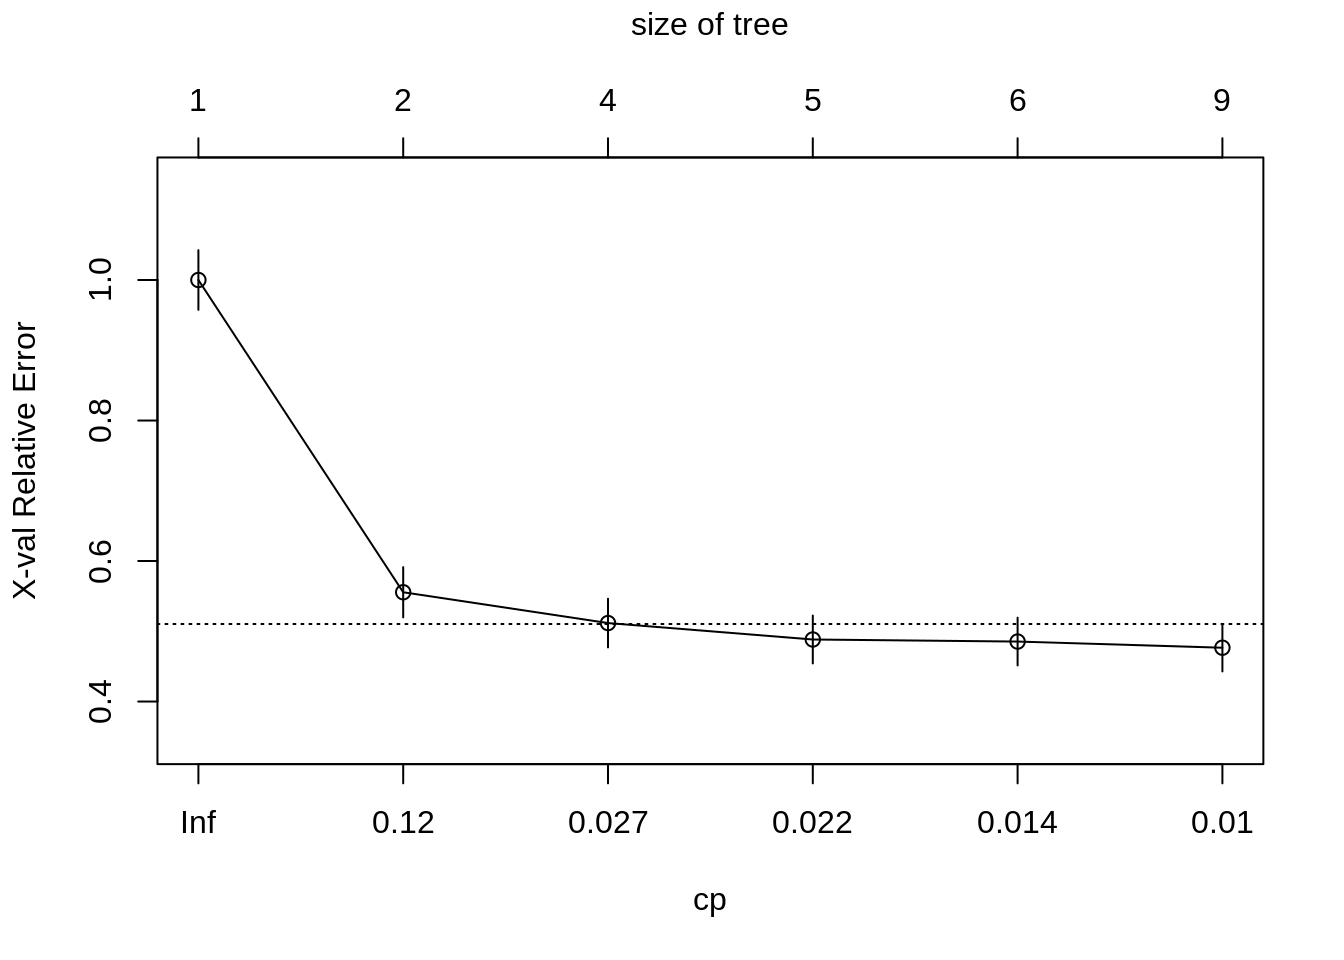
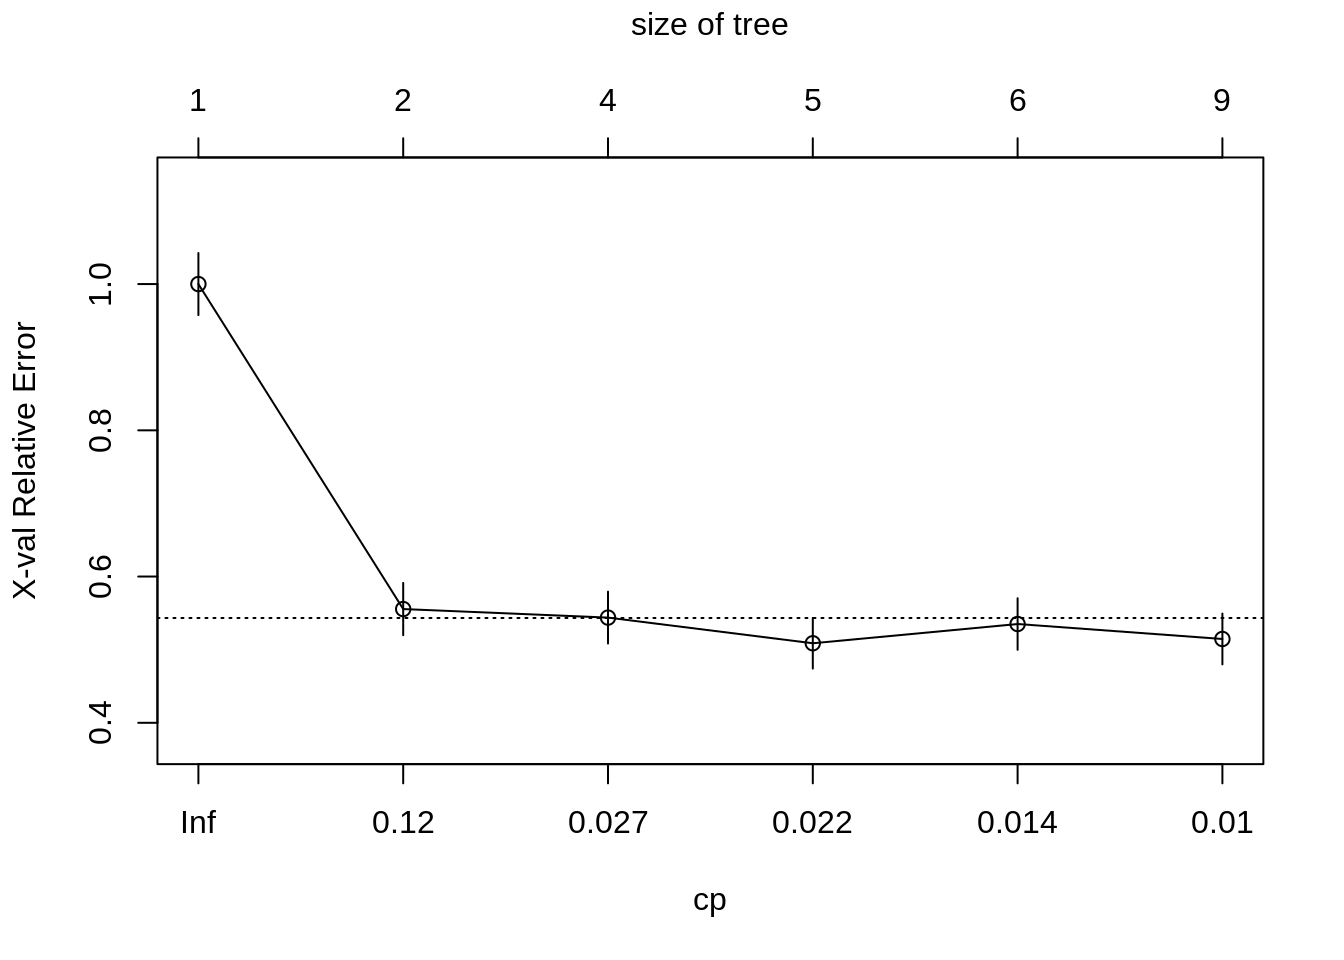
Deploy lebebr01/stat_thinking to github.com/lebebr01/stat_thinking.git:master

diff --git a/docs/descriptive-statistics-numerically-describing-the-sample-data.html b/docs/descriptive-statistics-numerically-describing-the-sample-data.html
@@ -190,10 +190,65 @@ code > span.in { color: #60a0b0; font-weight: bold; font-style: italic; } /* Inf
 <p>Data visualization is often the first step on the statistical journey to explore a research question. However, this is usually not where the journey stops, instead additional analyses are often performed to learn more about the trends and structure in the data. In this chapter we will learn about methods that useful for numerically summarizing a sample of data. These methods are commonly referred to as <em>descriptive statistics</em>.</p>
 <p>We will again use the data provided in the file <em>College-scorecard-clean.csv</em> to examine admissions rates for 2,019 institutions of higher education. As in the previous chapter, before we begin the analysis, we will load several packages that include functions we will use in the chapter. We also import the College Scorecard data using the <code>read_csv()</code> function.</p>
 <div class="sourceCode"><pre class="sourceCode r"><code class="sourceCode r"><span class="co"># Load packages</span>
-<span class="kw">library</span>(tidyverse)
-<span class="kw">library</span>(ggformula)
-<span class="kw">library</span>(mosaic)
-<span class="kw">library</span>(statthink)
+<span class="kw">library</span>(tidyverse)</code></pre></div>
+<pre><code>## ── Attaching packages ────────────────────────────────── tidyverse 1.2.1 ──</code></pre>
+<pre><code>## ✔ ggplot2 3.2.1     ✔ purrr   0.3.2
+## ✔ tibble  2.1.3     ✔ dplyr   0.8.3
+## ✔ tidyr   1.0.0     ✔ stringr 1.4.0
+## ✔ readr   1.3.1     ✔ forcats 0.4.0</code></pre>
+<pre><code>## ── Conflicts ───────────────────────────────────── tidyverse_conflicts() ──
+## ✖ dplyr::filter() masks stats::filter()
+## ✖ dplyr::lag()    masks stats::lag()</code></pre>
+<div class="sourceCode"><pre class="sourceCode r"><code class="sourceCode r"><span class="kw">library</span>(ggformula)</code></pre></div>
+<pre><code>## Loading required package: ggstance</code></pre>
+<pre><code>## 
+## Attaching package: &#39;ggstance&#39;</code></pre>
+<pre><code>## The following objects are masked from &#39;package:ggplot2&#39;:
+## 
+##     geom_errorbarh, GeomErrorbarh</code></pre>
+<pre><code>## 
+## New to ggformula?  Try the tutorials: 
+##  learnr::run_tutorial(&quot;introduction&quot;, package = &quot;ggformula&quot;)
+##  learnr::run_tutorial(&quot;refining&quot;, package = &quot;ggformula&quot;)</code></pre>
+<div class="sourceCode"><pre class="sourceCode r"><code class="sourceCode r"><span class="kw">library</span>(mosaic)</code></pre></div>
+<pre><code>## Loading required package: lattice</code></pre>
+<pre><code>## Loading required package: mosaicData</code></pre>
+<pre><code>## Loading required package: Matrix</code></pre>
+<pre><code>## 
+## Attaching package: &#39;Matrix&#39;</code></pre>
+<pre><code>## The following objects are masked from &#39;package:tidyr&#39;:
+## 
+##     expand, pack, unpack</code></pre>
+<pre><code>## Registered S3 method overwritten by &#39;mosaic&#39;:
+##   method                           from   
+##   fortify.SpatialPolygonsDataFrame ggplot2</code></pre>
+<pre><code>## 
+## The &#39;mosaic&#39; package masks several functions from core packages in order to add 
+## additional features.  The original behavior of these functions should not be affected by this.
+## 
+## Note: If you use the Matrix package, be sure to load it BEFORE loading mosaic.</code></pre>
+<pre><code>## 
+## Attaching package: &#39;mosaic&#39;</code></pre>
+<pre><code>## The following object is masked from &#39;package:Matrix&#39;:
+## 
+##     mean</code></pre>
+<pre><code>## The following objects are masked from &#39;package:dplyr&#39;:
+## 
+##     count, do, tally</code></pre>
+<pre><code>## The following object is masked from &#39;package:purrr&#39;:
+## 
+##     cross</code></pre>
+<pre><code>## The following object is masked from &#39;package:ggplot2&#39;:
+## 
+##     stat</code></pre>
+<pre><code>## The following objects are masked from &#39;package:stats&#39;:
+## 
+##     binom.test, cor, cor.test, cov, fivenum, IQR, median,
+##     prop.test, quantile, sd, t.test, var</code></pre>
+<pre><code>## The following objects are masked from &#39;package:base&#39;:
+## 
+##     max, mean, min, prod, range, sample, sum</code></pre>
+<div class="sourceCode"><pre class="sourceCode r"><code class="sourceCode r"><span class="kw">library</span>(statthink)
 
 <span class="co"># Set theme for plots</span>
 <span class="kw">theme_set</span>(<span class="kw">theme_statthinking</span>())
@@ -202,9 +257,28 @@ code > span.in { color: #60a0b0; font-weight: bold; font-style: italic; } /* Inf
 colleges &lt;-<span class="st"> </span><span class="kw">read_csv</span>(
   <span class="dt">file =</span> <span class="st">&quot;https://raw.githubusercontent.com/lebebr01/statthink/master/data-raw/College-scorecard-clean.csv&quot;</span>, 
   <span class="dt">guess_max =</span> <span class="dv">10000</span>
-  )
-
-<span class="co"># View first six cases</span>
+  )</code></pre></div>
+<pre><code>## Parsed with column specification:
+## cols(
+##   instnm = col_character(),
+##   city = col_character(),
+##   stabbr = col_character(),
+##   preddeg = col_character(),
+##   region = col_character(),
+##   locale = col_character(),
+##   adm_rate = col_double(),
+##   actcmmid = col_double(),
+##   ugds = col_double(),
+##   costt4_a = col_double(),
+##   costt4_p = col_double(),
+##   tuitionfee_in = col_double(),
+##   tuitionfee_out = col_double(),
+##   debt_mdn = col_double(),
+##   grad_debt_mdn = col_double(),
+##   female = col_double(),
+##   bachelor_degree = col_double()
+## )</code></pre>
+<div class="sourceCode"><pre class="sourceCode r"><code class="sourceCode r"><span class="co"># View first six cases</span>
 <span class="kw">head</span>(colleges)</code></pre></div>
 <pre><code>## # A tibble: 6 x 17
 ##   instnm city  stabbr preddeg region locale adm_rate actcmmid  ugds

diff --git a/docs/classification.html b/docs/classification.html
@@ -324,10 +324,10 @@ titanic &lt;-<span class="st"> </span><span class="kw">bind_rows</span>(titanic_
 ##         CP nsplit rel error  xerror     xstd
 ## 1 0.444444      0   1.00000 1.00000 0.042446
 ## 2 0.030702      1   0.55556 0.55556 0.035750
-## 3 0.023392      3   0.49415 0.51170 0.034675
-## 4 0.020468      4   0.47076 0.48830 0.034061
-## 5 0.010234      5   0.45029 0.48538 0.033983
-## 6 0.010000      8   0.41813 0.47661 0.033744</code></pre>
+## 3 0.023392      3   0.49415 0.54386 0.035472
+## 4 0.020468      4   0.47076 0.50877 0.034599
+## 5 0.010234      5   0.45029 0.53509 0.035260
+## 6 0.010000      8   0.41813 0.51462 0.034749</code></pre>
 <div class="sourceCode"><pre class="sourceCode r"><code class="sourceCode r"><span class="kw">plotcp</span>(class_tree)</code></pre></div>
 <p><img src="05-classification_files/figure-html/unnamed-chunk-6-1.png" width="672" /></p>
 <div class="sourceCode"><pre class="sourceCode r"><code class="sourceCode r">prune_class_tree &lt;-<span class="st"> </span><span class="kw">prune</span>(class_tree, <span class="dt">cp =</span> .<span class="dv">02</span>)

diff --git a/docs/03-descriptive.md b/docs/03-descriptive.md
@@ -9,8 +9,135 @@ We will again use the data provided in the file *College-scorecard-clean.csv* to
 ```r
 # Load packages
 library(tidyverse)
+```
+
+```
+## ── Attaching packages ────────────────────────────────── tidyverse 1.2.1 ──
+```
+
+```
+## ✔ ggplot2 3.2.1     ✔ purrr   0.3.2
+## ✔ tibble  2.1.3     ✔ dplyr   0.8.3
+## ✔ tidyr   1.0.0     ✔ stringr 1.4.0
+## ✔ readr   1.3.1     ✔ forcats 0.4.0
+```
+
+```
+## ── Conflicts ───────────────────────────────────── tidyverse_conflicts() ──
+## ✖ dplyr::filter() masks stats::filter()
+## ✖ dplyr::lag()    masks stats::lag()
+```
+
+```r
 library(ggformula)
+```
+
+```
+## Loading required package: ggstance
+```
+
+```
+## 
+## Attaching package: 'ggstance'
+```
+
+```
+## The following objects are masked from 'package:ggplot2':
+## 
+##     geom_errorbarh, GeomErrorbarh
+```
+
+```
+## 
+## New to ggformula?  Try the tutorials: 
+## 	learnr::run_tutorial("introduction", package = "ggformula")
+## 	learnr::run_tutorial("refining", package = "ggformula")
+```
+
+```r
 library(mosaic)
+```
+
+```
+## Loading required package: lattice
+```
+
+```
+## Loading required package: mosaicData
+```
+
+```
+## Loading required package: Matrix
+```
+
+```
+## 
+## Attaching package: 'Matrix'
+```
+
+```
+## The following objects are masked from 'package:tidyr':
+## 
+##     expand, pack, unpack
+```
+
+```
+## Registered S3 method overwritten by 'mosaic':
+##   method                           from   
+##   fortify.SpatialPolygonsDataFrame ggplot2
+```
+
+```
+## 
+## The 'mosaic' package masks several functions from core packages in order to add 
+## additional features.  The original behavior of these functions should not be affected by this.
+## 
+## Note: If you use the Matrix package, be sure to load it BEFORE loading mosaic.
+```
+
+```
+## 
+## Attaching package: 'mosaic'
+```
+
+```
+## The following object is masked from 'package:Matrix':
+## 
+##     mean
+```
+
+```
+## The following objects are masked from 'package:dplyr':
+## 
+##     count, do, tally
+```
+
+```
+## The following object is masked from 'package:purrr':
+## 
+##     cross
+```
+
+```
+## The following object is masked from 'package:ggplot2':
+## 
+##     stat
+```
+
+```
+## The following objects are masked from 'package:stats':
+## 
+##     binom.test, cor, cor.test, cov, fivenum, IQR, median,
+##     prop.test, quantile, sd, t.test, var
+```
+
+```
+## The following objects are masked from 'package:base':
+## 
+##     max, mean, min, prod, range, sample, sum
+```
+
+```r
 library(statthink)
 
 # Set theme for plots
@@ -21,7 +148,32 @@ colleges <- read_csv(
   file = "https://raw.githubusercontent.com/lebebr01/statthink/master/data-raw/College-scorecard-clean.csv", 
   guess_max = 10000
   )
+```
 
+```
+## Parsed with column specification:
+## cols(
+##   instnm = col_character(),
+##   city = col_character(),
+##   stabbr = col_character(),
+##   preddeg = col_character(),
+##   region = col_character(),
+##   locale = col_character(),
+##   adm_rate = col_double(),
+##   actcmmid = col_double(),
+##   ugds = col_double(),
+##   costt4_a = col_double(),
+##   costt4_p = col_double(),
+##   tuitionfee_in = col_double(),
+##   tuitionfee_out = col_double(),
+##   debt_mdn = col_double(),
+##   grad_debt_mdn = col_double(),
+##   female = col_double(),
+##   bachelor_degree = col_double()
+## )
+```
+
+```r
 # View first six cases
 head(colleges)
 ```

diff --git a/docs/05-classification.md b/docs/05-classification.md
@@ -249,10 +249,10 @@ printcp(class_tree)
 ##         CP nsplit rel error  xerror     xstd
 ## 1 0.444444      0   1.00000 1.00000 0.042446
 ## 2 0.030702      1   0.55556 0.55556 0.035750
-## 3 0.023392      3   0.49415 0.51170 0.034675
-## 4 0.020468      4   0.47076 0.48830 0.034061
-## 5 0.010234      5   0.45029 0.48538 0.033983
-## 6 0.010000      8   0.41813 0.47661 0.033744
+## 3 0.023392      3   0.49415 0.54386 0.035472
+## 4 0.020468      4   0.47076 0.50877 0.034599
+## 5 0.010234      5   0.45029 0.53509 0.035260
+## 6 0.010000      8   0.41813 0.51462 0.034749
 ```
 
 ```r
